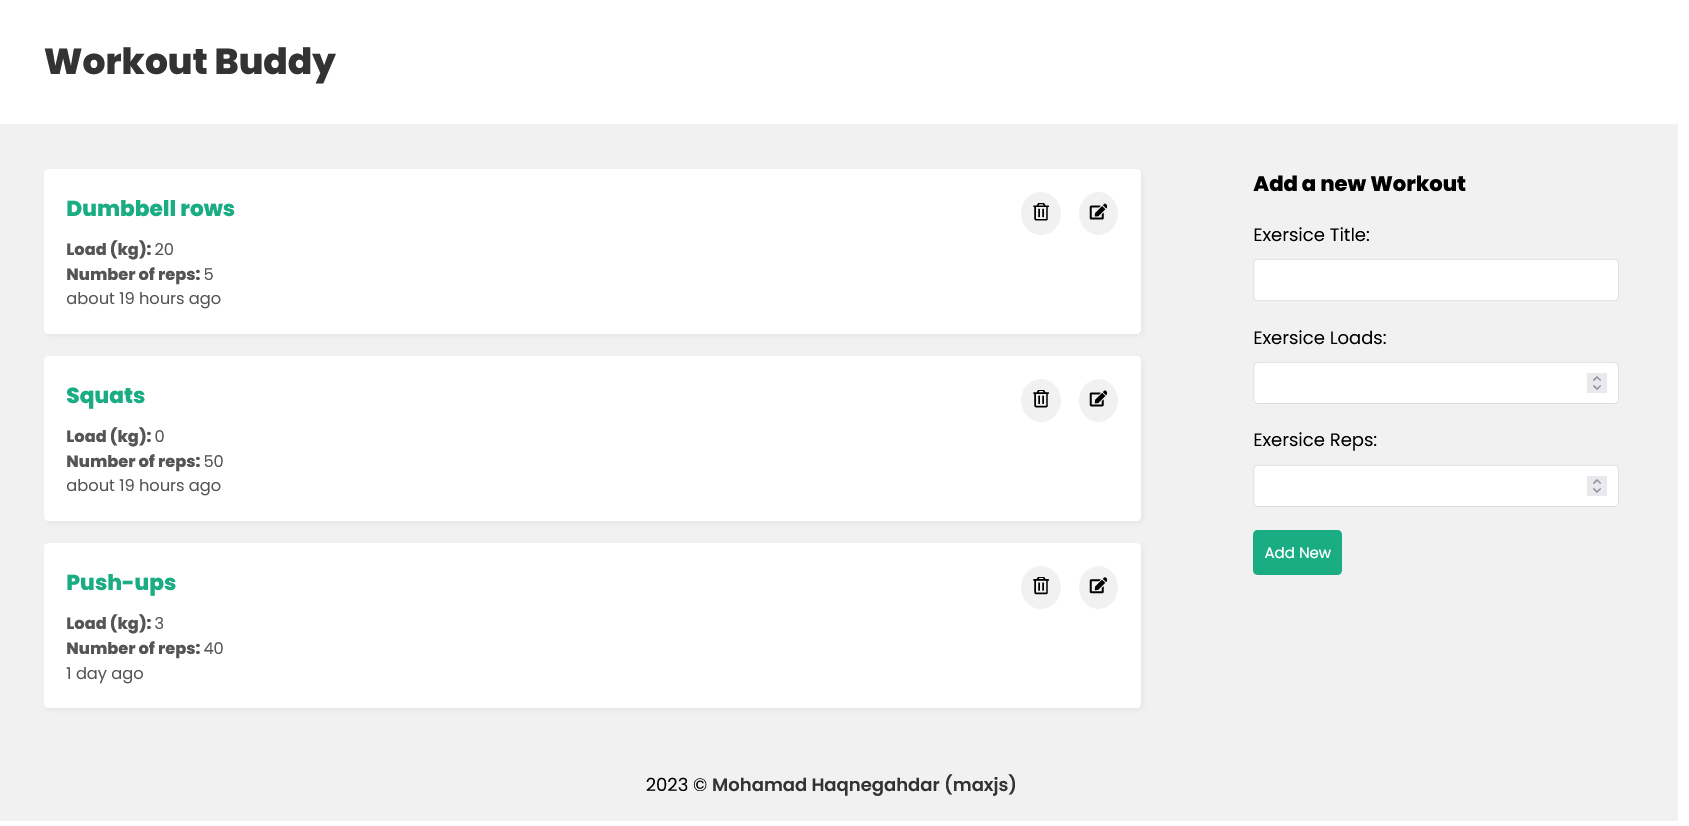
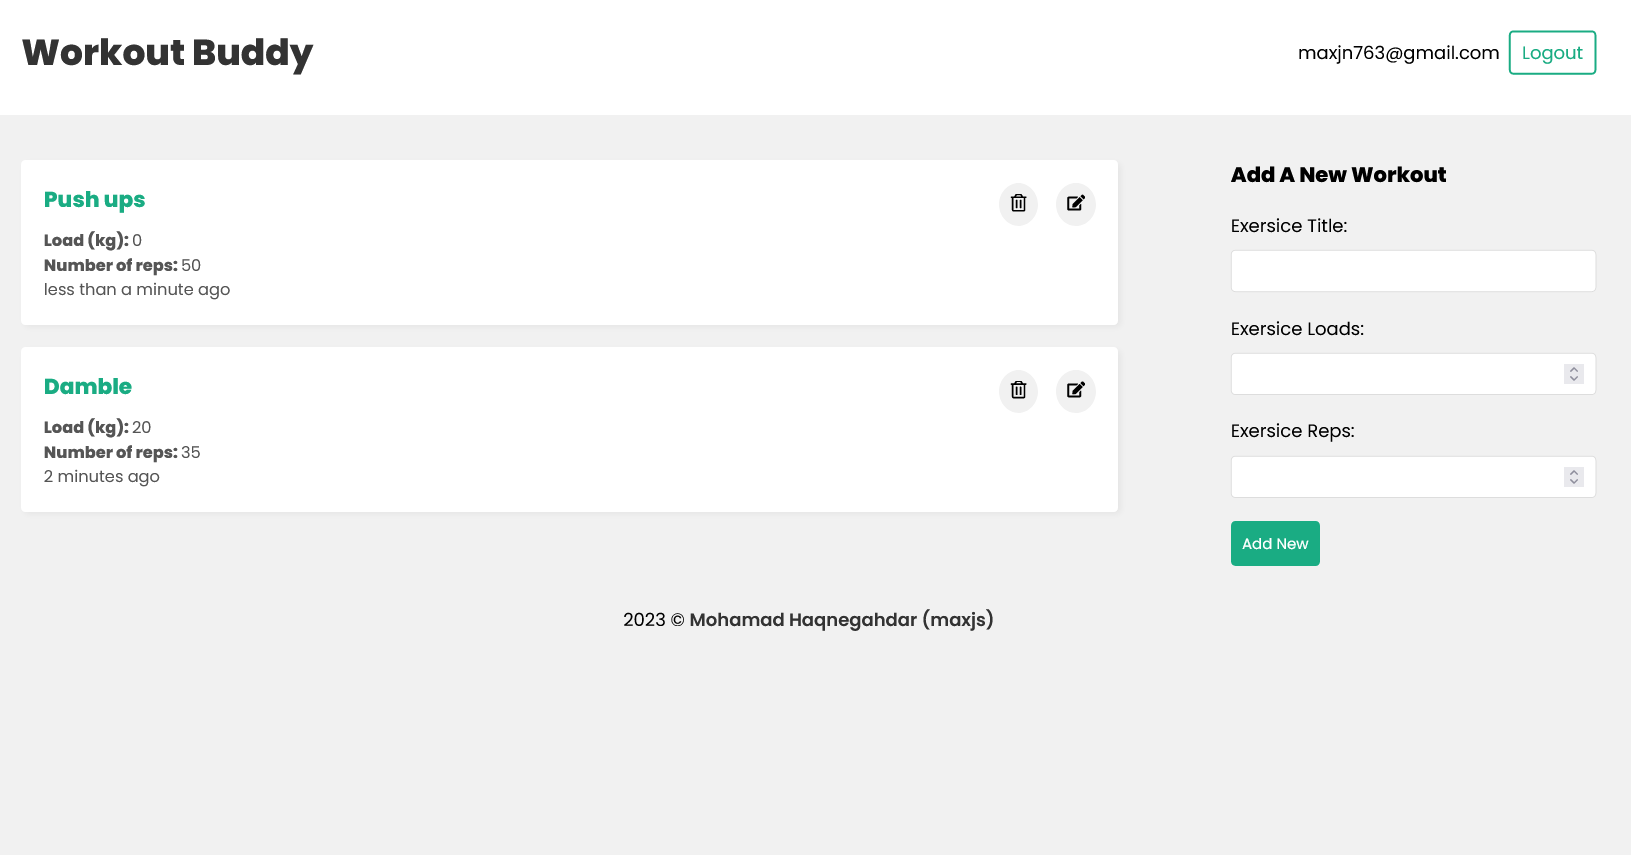
Assign Workouts: (#18)
- updated README.md
- reset Workouts after logging out
- added user_id property to workout schema
- fixed type error in login controller method
- added a new cover

diff --git a/backend/controllers/workoutController.js b/backend/controllers/workoutController.js
@@ -4,7 +4,8 @@ const mongoose = require("mongoose");
 // GET all
 const getWorkouts = async (req, res) => {
   try {
-    const workouts = await Workout.find({}).sort({ createdAt: -1 });
+    const user_id = req.user._id;
+    const workouts = await Workout.find({ user_id }).sort({ createdAt: -1 });
 
     res.status(200).json(workouts);
   } catch (error) {
@@ -51,7 +52,9 @@ const addWorkout = async (req, res) => {
   }
 
   try {
-    const workout = await Workout.create({ title, reps, load });
+    const user_id = req.user._id;
+
+    const workout = await Workout.create({ title, reps, load, user_id });
     res.status(200).json(workout);
   } catch (error) {
     res.status(500).json({ error: error.message });

diff --git a/frontend/src/hooks/useLogout.js b/frontend/src/hooks/useLogout.js
@@ -1,8 +1,10 @@
 import { removeLocalStorage } from "../utils/localstorage";
 import { useAuthContext } from "./useAuthContext";
+import { useWorkoutsContext } from "./useWorkoutsContext";
 
 export const useLogout = () => {
   const { dispatch } = useAuthContext();
+  const { dispatch: dispatchWorkouts } = useWorkoutsContext();
 
   const logout = () => {
     // remove user from local storage
@@ -10,6 +12,8 @@ export const useLogout = () => {
 
     // dispatch Logout action
     dispatch({ type: "LOGOUT" });
+    //dispatch SET_WORKOUTS action
+    dispatchWorkouts({ type: "SET_WORKOUTS", payload: null });
   };
 
   return { logout };

diff --git a/backend/middlewares/requireAuth.js b/backend/middlewares/requireAuth.js
@@ -13,7 +13,7 @@ const requireAuth = async (req, res, next) => {
   try {
     const { _id } = jwt.verify(token, process.env.SECRET);
 
-    req.user = await User.findById(_id).select("_id");
+    req.user = await User.findOne({ _id }).select("_id");
     next();
   } catch (error) {
     console.log(error);

diff --git a/backend/controllers/userController.js b/backend/controllers/userController.js
@@ -12,7 +12,7 @@ const loginUser = async (req, res) => {
   try {
     const user = await User.login(email, password);
 
-    const token = createToken(user._ID);
+    const token = createToken(user._id);
 
     res.status(200).json({ email, token });
   } catch (error) {

diff --git a/frontend/src/components/WorkoutForm.jsx b/frontend/src/components/WorkoutForm.jsx
@@ -32,7 +32,6 @@ const WorkoutForm = ({ workout, setEdit }) => {
         body: JSON.stringify(formData),
         headers: {
           "content-type": "application/json",
-
           Authorization: `Bearer ${user.token}`,
         },
       });

diff --git a/backend/models/workoutModel.js b/backend/models/workoutModel.js
@@ -16,6 +16,10 @@ const workoutSchema = new Schema(
       type: Number,
       required: true,
     },
+    user_id: {
+      type: Schema.Types.ObjectId,
+      ref: "User",
+    },
   },
   { timestamps: true }
 );

diff --git a/README.md b/README.md
@@ -15,6 +15,7 @@ explore the demo [here](https://maxjn-my-workout.vercel.app/)
 
 ## Features
 
+- Authentication
 - Adding workouts
 - deleting workouts
 - updating workouts
